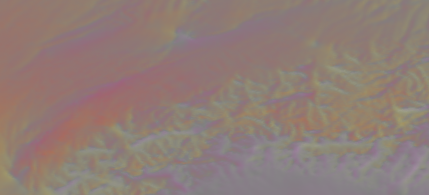
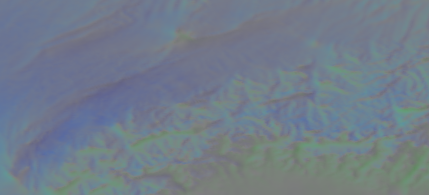
Fix

diff --git a/weatherlayers/index.html b/weatherlayers/index.html
@@ -109,8 +109,8 @@
                         imageWeight: 0,
                         imageType: WeatherLayers.ImageType.VECTOR,
                         imageUnscale,
-                        imageMinValue: 0,
-                        imageMaxValue: 30,
+                        // imageMinValue: 0,
+                        // imageMaxValue: 30,
                         bounds,
                         // style properties
                         visible: true,
